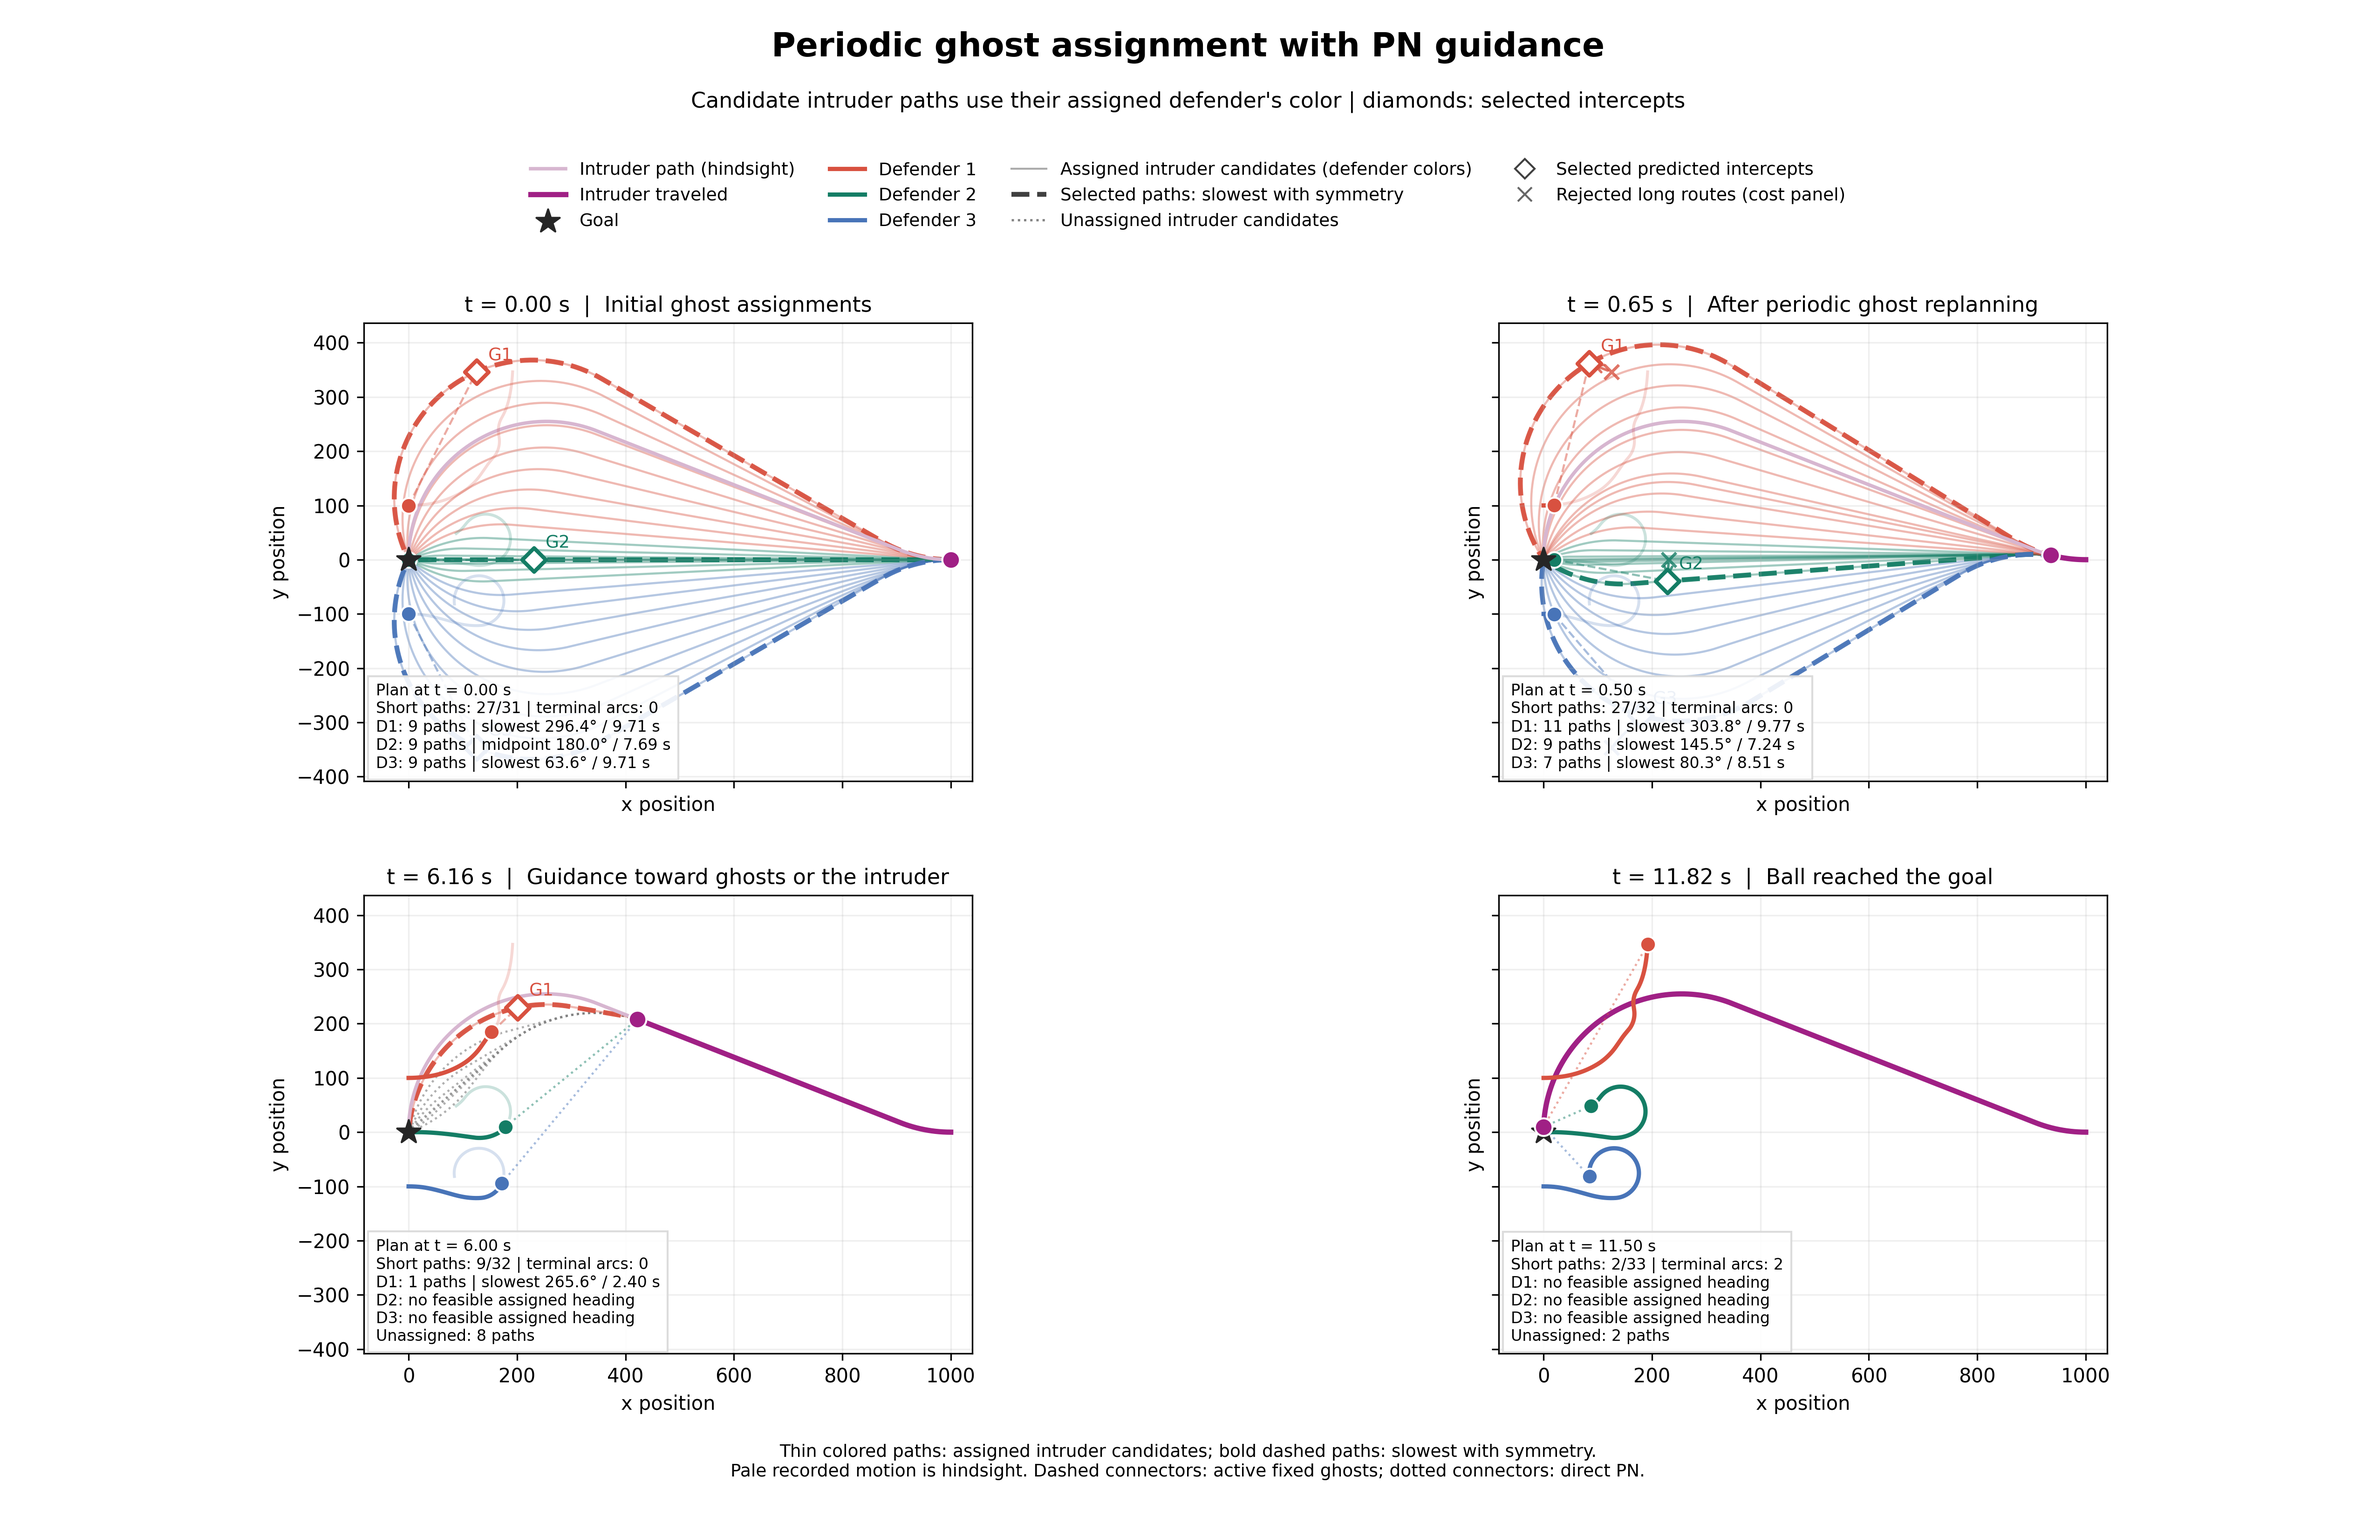
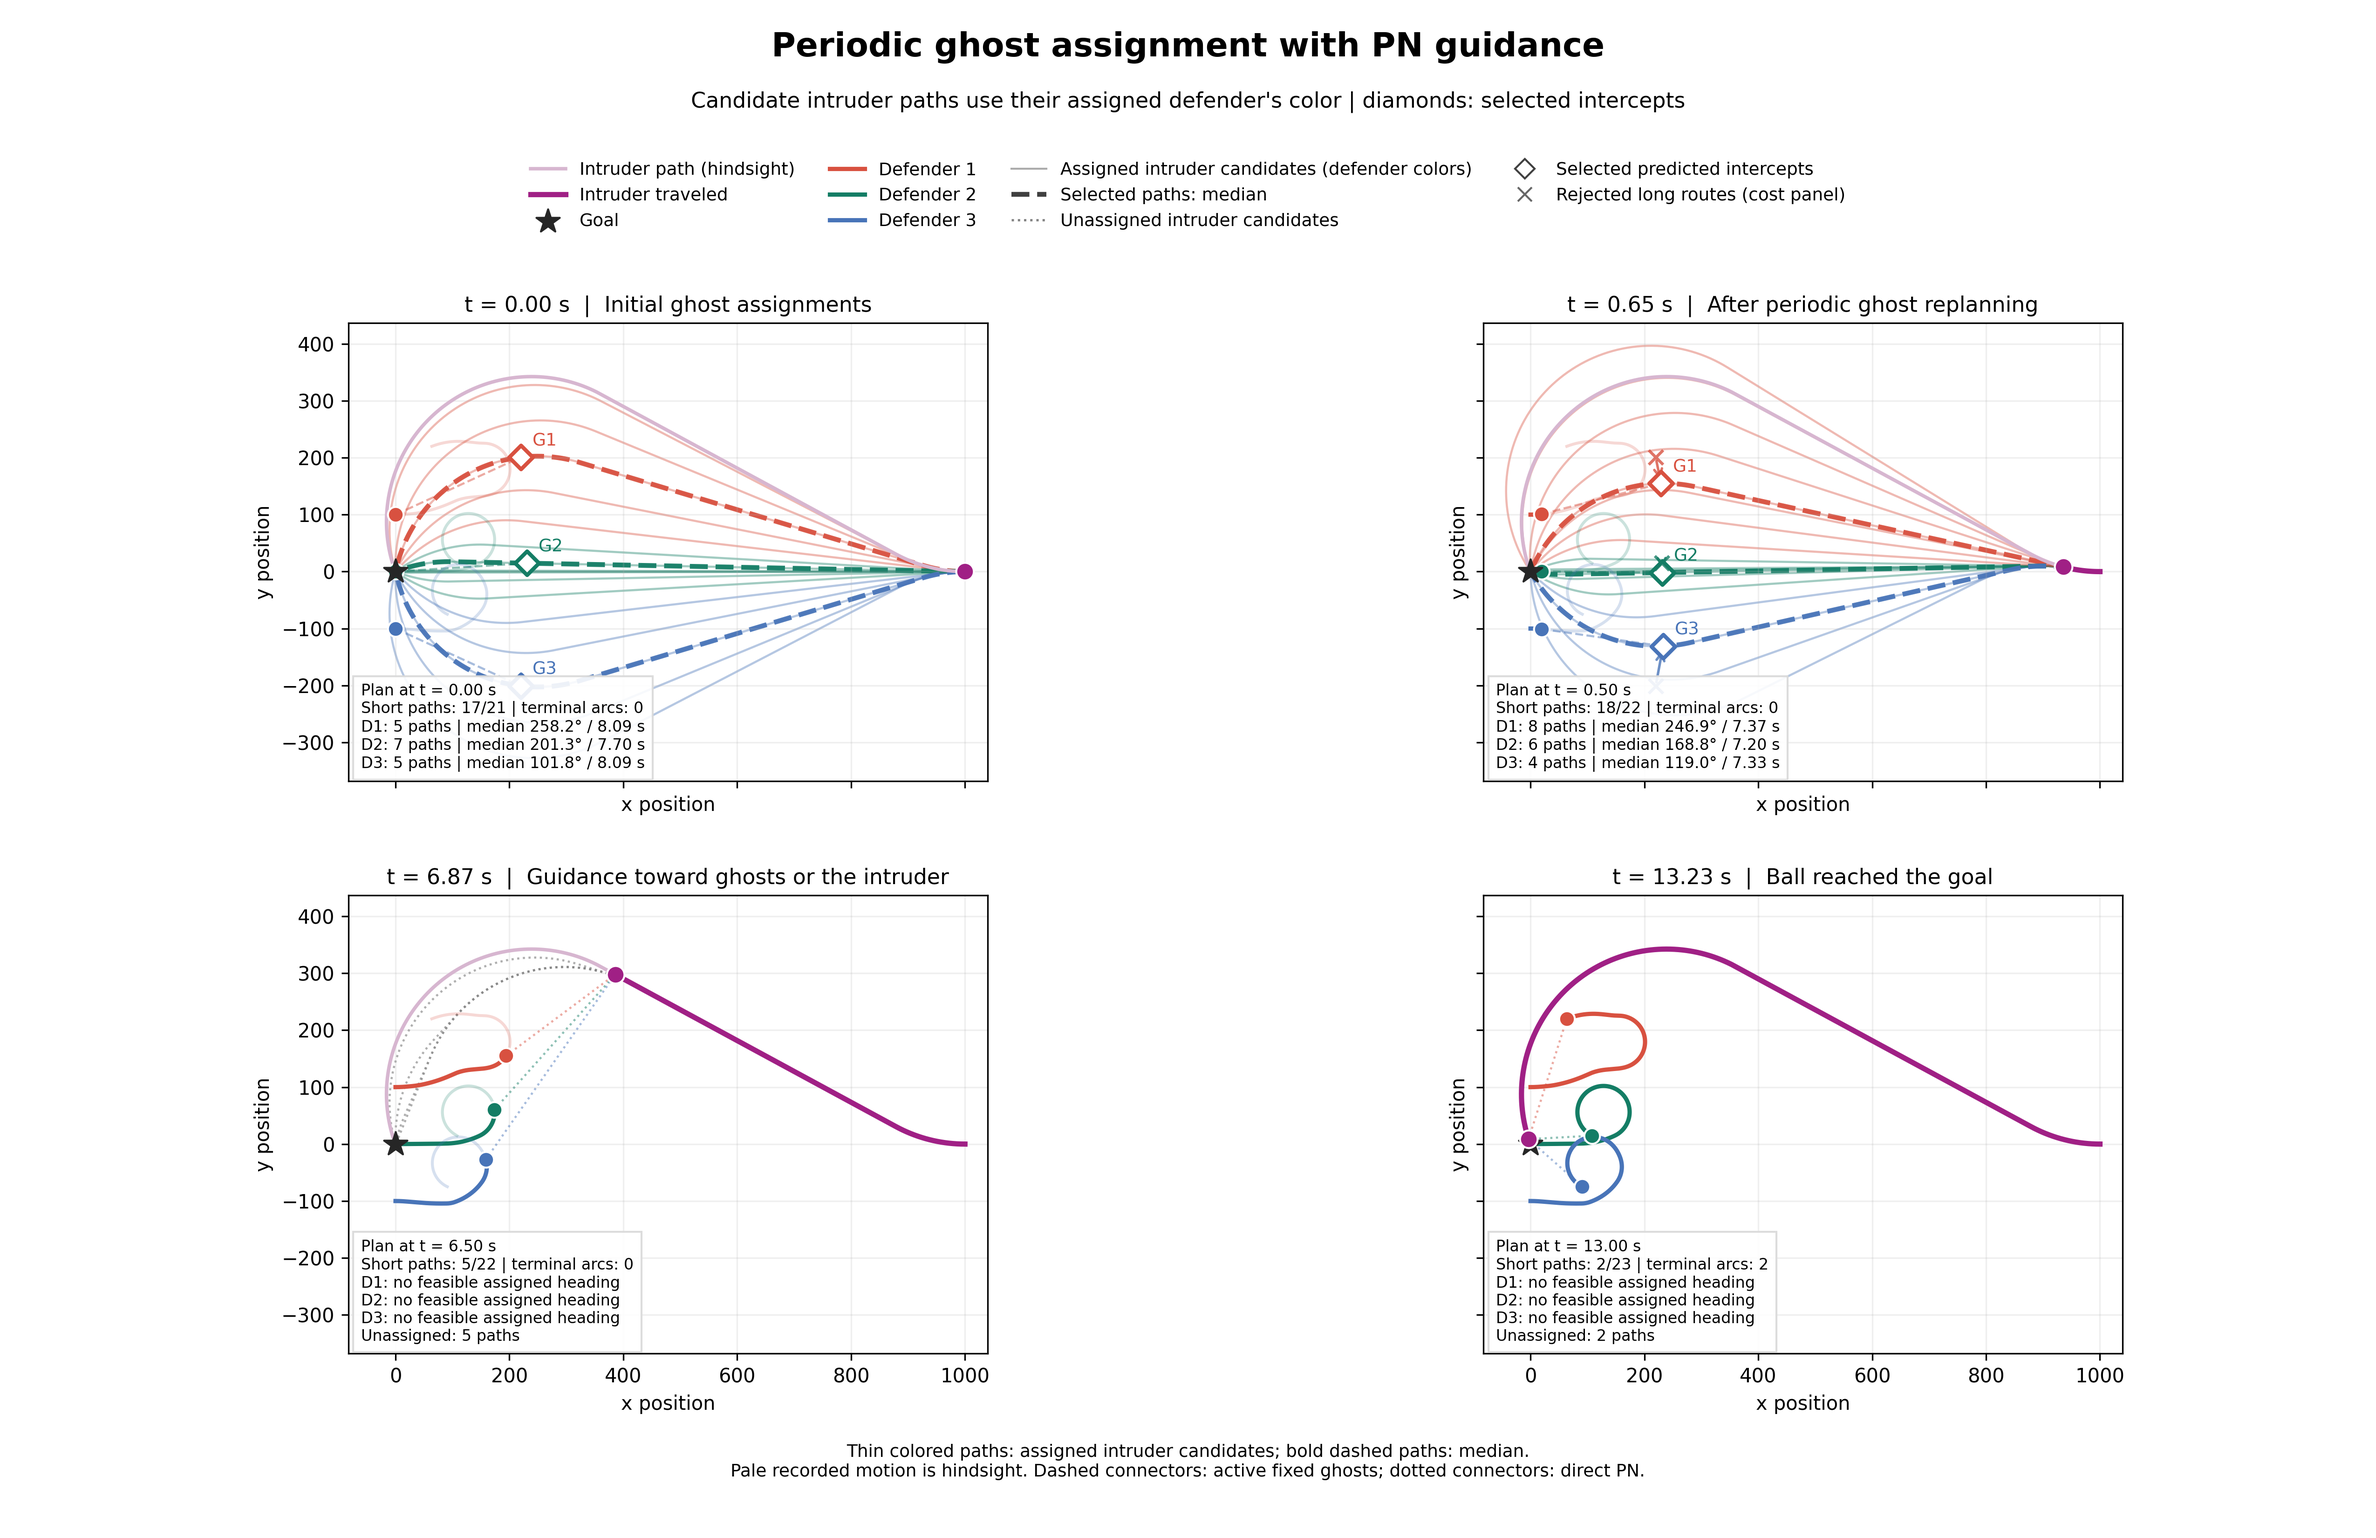
got all 10/10 intercepts

diff --git a/sim_assignment.py b/sim_assignment.py
@@ -112,7 +112,7 @@ def sim(animate=True, plot=True, terminal_heading=4.422615269729036,
         active_ghosts = []
         for robot, ghost in zip(robots, ghosts):
             direct_pn = (ghost is None or
-                         np.linalg.norm(robot.x[:2] - ball.x[:2]) < 1.0*ball_radius)
+                         np.linalg.norm(robot.x[:2] - ball.x[:2]) < 1.25*ball_radius)
             # Choose each robot's mode independently, at every control step.
             controls.append(pronav(
                 robot.x, ball.x if direct_pn else ghost, v_robot,
@@ -200,6 +200,6 @@ def sim(animate=True, plot=True, terminal_heading=4.422615269729036,
 
 
 if __name__ == "__main__":
-    sim(terminal_heading=np.radians(270), verbose=True,
-        selection_mode="slowest_symmetric")
-        # selection_mode="median")  # Or "median".
+    sim(terminal_heading=np.radians(290), verbose=True,
+        # selection_mode="slowest_symmetric")
+        selection_mode="median")  # Or "median".

diff --git a/intercept.py b/intercept.py
@@ -273,7 +273,8 @@ def _symmetric_center_robot_index(xi_robots0, x_ball0, ball_goal,
 def _default_terminal_thetas(ball_heading):
     """Keep the original 10-heading bank and add its exact midpoint."""
     half_span = np.deg2rad(135)
-    sampled = np.linspace(-half_span, half_span, 30) + ball_heading
+    sampled = np.linspace(-half_span, half_span, 20) + ball_heading
+    # sampled = np.linspace(-np.pi/2, np.pi/2, 20) + ball_heading
     return np.sort(np.append(sampled, ball_heading))
 
 
